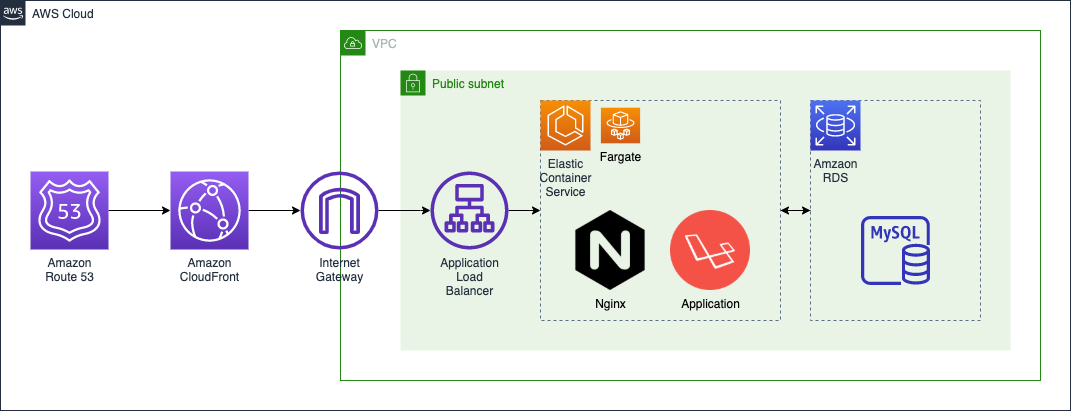
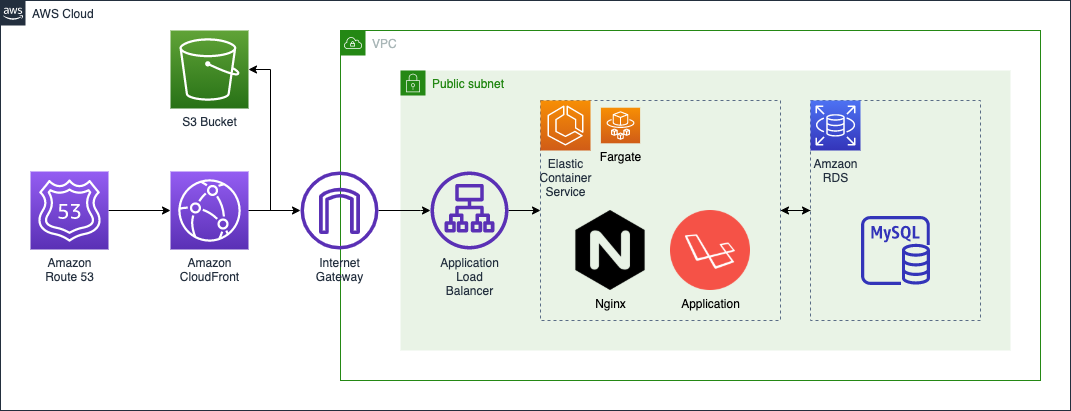
update network map and readme file (#85)

Changed region(s): [[0.1541, 0.0584, 0.2465, 0.3212]]

diff --git a/README.md b/README.md
@@ -1,5 +1,15 @@
 # Info
 
+### Network Map
+
+- Desired
+  ![Desired](./network_map/desired.png)
+  cost of Nat Gateway is expencive than what i expected.
+  so, currently detaching nat gateway
+
+- Current
+  ![Current](./network_map/current.png)
+
 ### Images
 
 - Nginx : nginx:1.18-alpine
